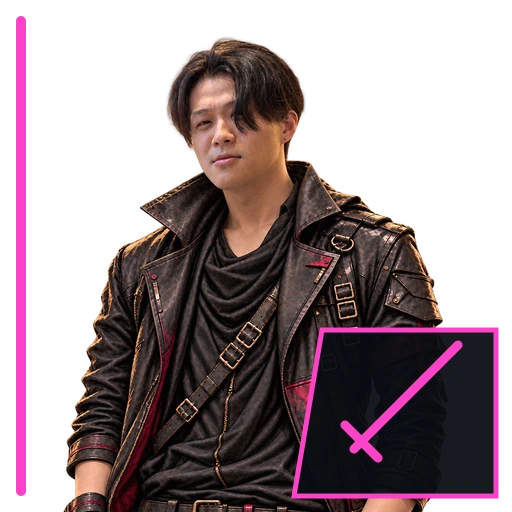
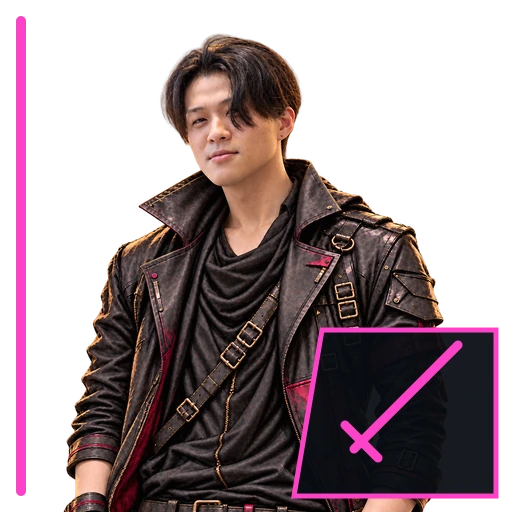
Refine TKY likeness and handsome grooming across game portraits

diff --git a/docs/story/v10/PRODUCER_DECISIONS_FINAL_RELEASE.md b/docs/story/v10/PRODUCER_DECISIONS_FINAL_RELEASE.md
@@ -1,6 +1,6 @@
 ### 2026-10-30 使用量運用の停止と完成までの再開
 
-Producerは使用量の監視・リセットによる停止運用をいったん取りやめ、総合品質更新を完成まで再開するよう指示した。通常の技術判断で進め、追加課金・予算変更・新Release等の許可へ拡張しない。TKYは本人写真の特徴を保ちつつ、韓流風のかっこよさを髪・肌・表情の整え方で両立する。本人性、全キャラへの展開、実ゲームでの視覚的矛盾の解消を省かない。
+Producerは使用量の監視・リセットによる停止運用をいったん取りやめ、総合品質更新を完成まで再開するよう指示した。通常の技術判断で進め、追加課金・予算変更・新Release等の許可へ拡張しない。TKYは本人写真の特徴を保ちつつ、韓流風のかっこよさを髪・肌・表情の整え方で両立する。本人性、全キャラへの展開、実ゲームでの視覚的矛盾の解消を省かない。TKYは元写真に約90%似せる印象と韓流風イケメンの両立が指定であり、写真に寄せるだけで美化の指定を弱めない。
 
  Version 1.0.0 正式リリース — Producer Decisions v4
 
